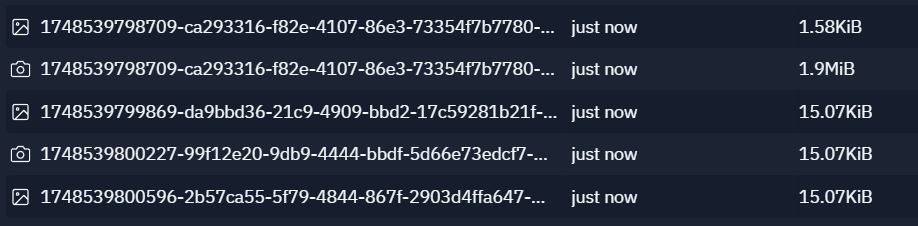
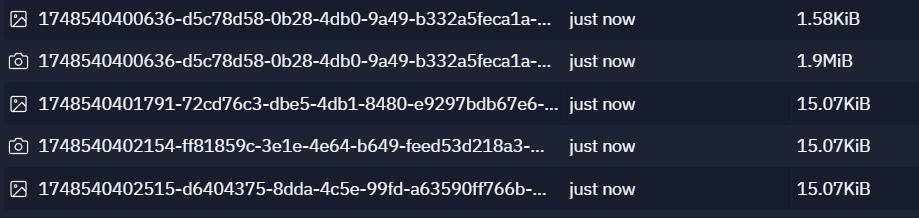
Improve video processing by creating only one thumbnail to save space
Refactors video thumbnail generation in `server/sparta-object-storage.ts` to create a single thumbnail and uploads it to object storage.

Replit-Commit-Author: Agent
Replit-Commit-Session-Id: 603e69d8-671b-4f29-a4db-ef7df10941c3
Replit-Commit-Screenshot-Url: https://storage.googleapis.com/screenshot-production-us-central1/a0341f86-dcd3-4fbd-8a10-9a1965e07b56/2d343532-2f67-4c42-b723-5dd0eb24df66.jpg

diff --git a/server/sparta-object-storage.ts b/server/sparta-object-storage.ts
@@ -1042,11 +1042,9 @@ export class SpartaObjectStorage {
                     fs.mkdirSync(thumbDir, { recursive: true });
                   }
 
-                  // Define output paths
-                  const jpgThumbPath = targetPath.replace('.mov', '.jpg');
-                  const posterFilename = filename.replace('.mov', '.poster.jpg');
-                  const posterPath = path.join(path.dirname(videoPath), posterFilename);
-                  const nonPrefixedThumbPath = targetPath.replace('thumb-', '');
+                  // SIMPLIFIED: Only create ONE thumbnail with the video's base name + .jpg
+                  const videoBaseName = path.parse(filename).name;
+                  const simplifiedThumbPath = path.join(path.dirname(targetPath), `${videoBaseName}.jpg`);
 
                   // Generate an actual frame capture using ffmpeg
                   // For MOV files we'll use more precise settings
@@ -1100,60 +1098,34 @@ export class SpartaObjectStorage {
                         }
                       });
 
-                    // Execute ffmpeg to create the JPG thumbnail
-                    command.save(jpgThumbPath);
+                    // Execute ffmpeg to create the simplified thumbnail
+                    command.save(simplifiedThumbPath);
                   });
 
                   // Wait for frame capture to complete
                   generateFrameCapture.then(() => {
-                    // Now copy the JPG thumbnail to all required locations
-                    if (fs.existsSync(jpgThumbPath)) {
-                      console.log(`Frame capture successful, creating additional thumbnail versions`);
-                      const jpgBuffer = fs.readFileSync(jpgThumbPath);
+                    // SIMPLIFIED: Only handle the single thumbnail we created
+                    if (fs.existsSync(simplifiedThumbPath)) {
+                      console.log(`Frame capture successful, uploading simplified thumbnail`);
 
-                      // Make copies for all required formats
-                      fs.writeFileSync(targetPath, jpgBuffer);
-                      fs.writeFileSync(posterPath, jpgBuffer);
-                      fs.writeFileSync(nonPrefixedThumbPath, jpgBuffer);
-
-                      console.log(`Created all required thumbnail versions`);
-
-                      // Upload all created files to Object Storage
+                      // Upload only the simplified thumbnail to Object Storage
                       if (this.objectStorage) {
-                        const thumbnailBasename = path.basename(targetPath);
-                        const jpgThumbBasename = path.basename(jpgThumbPath);
-                        const posterBasename = path.basename(posterPath);
-                        const nonPrefixedBasename = path.basename(nonPrefixedThumbPath);
+                        const thumbnailBuffer = fs.readFileSync(simplifiedThumbPath);
+                        const thumbnailBasename = path.basename(simplifiedThumbPath);
 
-                        // Store only in shared path to save space
-                        const sharedThumbKey = `shared/uploads/thumbnails/${thumbnailBasename}`;
-                        const sharedJpgThumbKey = `shared/uploads/thumbnails/${jpgThumbBasename}`;
-                        const sharedPosterKey = `shared/uploads/thumbnails/${posterBasename}`;
-                        const sharedNonPrefixedKey = `shared/uploads/thumbnails/${nonPrefixedBasename}`;
+                        // Store only in shared path to save space  
+                        const sharedThumbKey = `shared/uploads/${thumbnailBasename}`;
 
-                        console.log(`Uploading MOV thumbnails to Object Storage with shared keys`);
+                        console.log(`Uploading simplified thumbnail to Object Storage: ${sharedThumbKey}`);
 
-                        const uploadPromises = [
-                          this.objectStorage.uploadFromBytes(sharedThumbKey, jpgBuffer)
-                            .then(() => console.log(`Uploaded MOV thumbnail to ${sharedThumbKey}`))
-                            .catch(e => console.error(`Failed to upload to ${sharedThumbKey}:`, e)),
-
-                          this.objectStorage.uploadFromBytes(sharedJpgThumbKey, jpgBuffer)
-                            .then(() => console.log(`Uploaded JPG thumbnail to ${sharedJpgThumbKey}`))
-                            .catch(e => console.error(`Failed to upload to ${sharedJpgThumbKey}:`, e)),
-
-                          this.objectStorage.uploadFromBytes(sharedPosterKey, jpgBuffer)
-                            .then(() => console.log(`Uploaded poster to ${sharedPosterKey}`))
-                            .catch(e => console.error(`Failed to upload to ${sharedPosterKey}:`, e)),
-
-                          this.objectStorage.uploadFromBytes(sharedNonPrefixedKey, jpgBuffer)
-                            .then(() => console.log(`Uploaded non-prefixed thumbnail to ${sharedNonPrefixedKey}`))
-                            .catch(e => console.error(`Failed to upload to ${sharedNonPrefixedKey}:`, e))
-                        ];
-
-                        Promise.all(uploadPromises)
-                          .then(() => console.log(`Successfully uploaded all MOV thumbnails to Object Storage`))
-                          .catch(err => console.error('Error uploading thumbnails:', err));
+                        // Upload only the simplified thumbnail
+                        this.objectStorage.uploadFromBytes(sharedThumbKey, thumbnailBuffer)
+                          .then(() => {
+                            console.log(`Successfully uploaded simplified thumbnail to ${sharedThumbKey}`);
+                          })
+                          .catch(e => {
+                            console.error(`Failed to upload simplified thumbnail to ${sharedThumbKey}:`, e);
+                          });
 
                         // Resolve the original promise since we've created the thumbnails
                         resolve();
